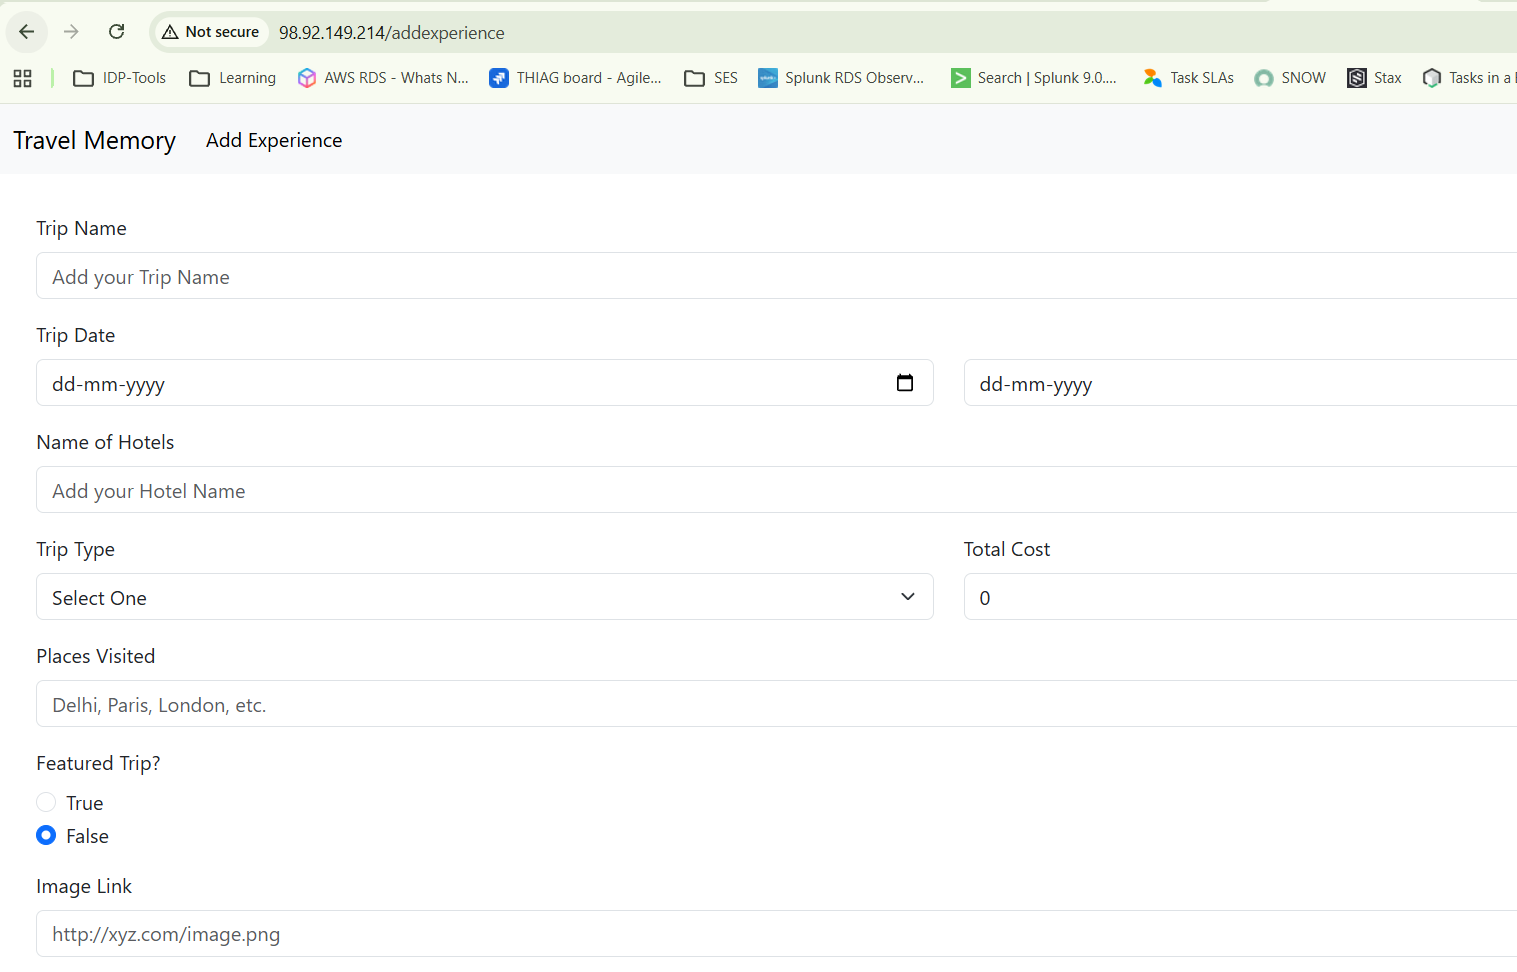
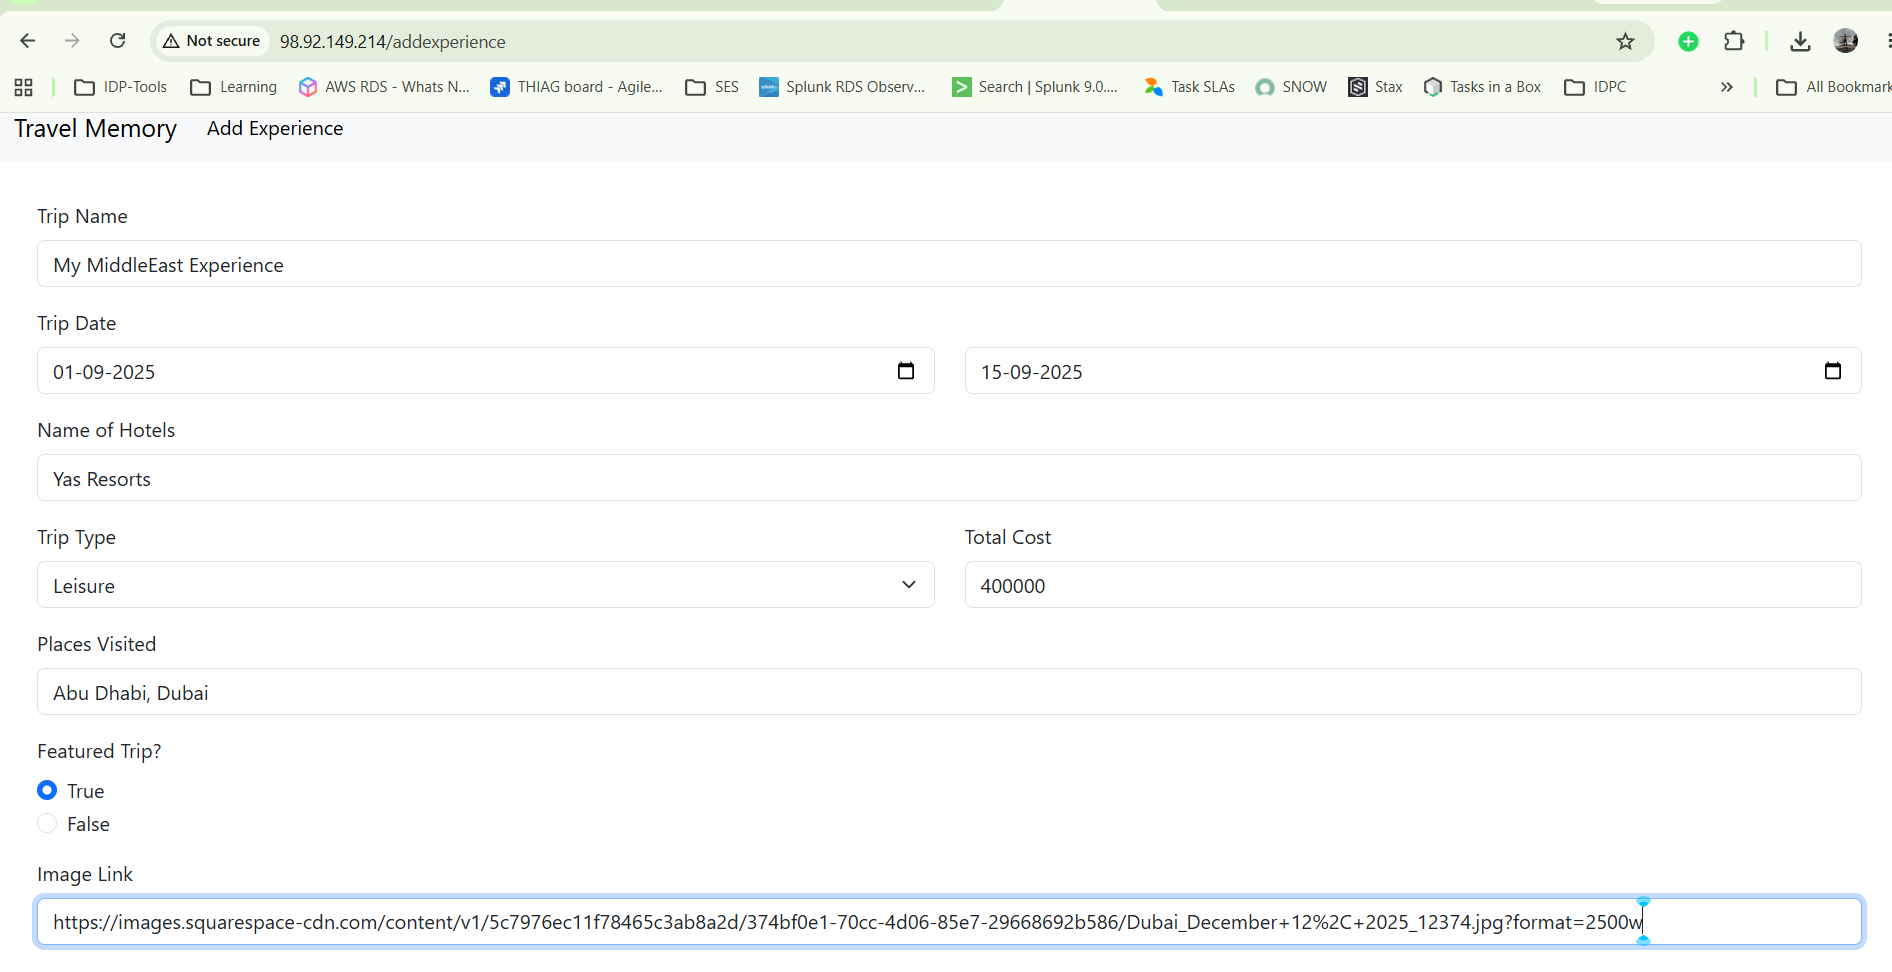
Fixed code issues with Ansible

diff --git a/backend/controllers/trip.controller.js b/backend/controllers/trip.controller.js
@@ -19,30 +19,41 @@ async function tripAdditionController(req, res){
         await tripDetail.save()
         res.send('Trip added Successfully')
     }catch(error){
-        console.log('ERROR')
-        res.send('SOMETHING WENT WRONG')
+        console.error('Error adding trip:', error)
+        res.status(500).json({ error: 'SOMETHING WENT WRONG', details: error.message })
     }
 }
 
 async function getTripDetailsController(req,res){
     try{
         tripModel.Trip.find({})
-        .then(doc => res.send(doc))
-        .catch(err => res.send('SOMETHING WENT WRONG WHILE FETCHING'))
+        .then(doc => res.json(doc))
+        .catch(err => {
+            console.error('Error fetching trips:', err)
+            res.status(500).json({ error: 'SOMETHING WENT WRONG WHILE FETCHING', details: err.message })
+        })
     }catch(error){
-        console.log('ERROR')
-        res.send('SOMETHING WENT WRONG')
+        console.error('Error in getTripDetailsController:', error)
+        res.status(500).json({ error: 'SOMETHING WENT WRONG', details: error.message })
     }
 }
 
 async function getTripDetailsByIdController(req,res){
     try{
         tripModel.Trip.findById(req.params.id)
-        .then(doc => res.send(doc))
-        .catch(err => res.send('Nothing in database'))
+        .then(doc => {
+            if (!doc) {
+                return res.status(404).json({ error: 'Nothing in database' })
+            }
+            res.json(doc)
+        })
+        .catch(err => {
+            console.error('Error fetching trip by ID:', err)
+            res.status(404).json({ error: 'Nothing in database', details: err.message })
+        })
     }catch(error){
-        console.log('ERROR')
-        res.send('SOMETHING WENT WRONG')
+        console.error('Error in getTripDetailsByIdController:', error)
+        res.status(500).json({ error: 'SOMETHING WENT WRONG', details: error.message })
     }
 }
 module.exports = { tripAdditionController, getTripDetailsController, getTripDetailsByIdController }
